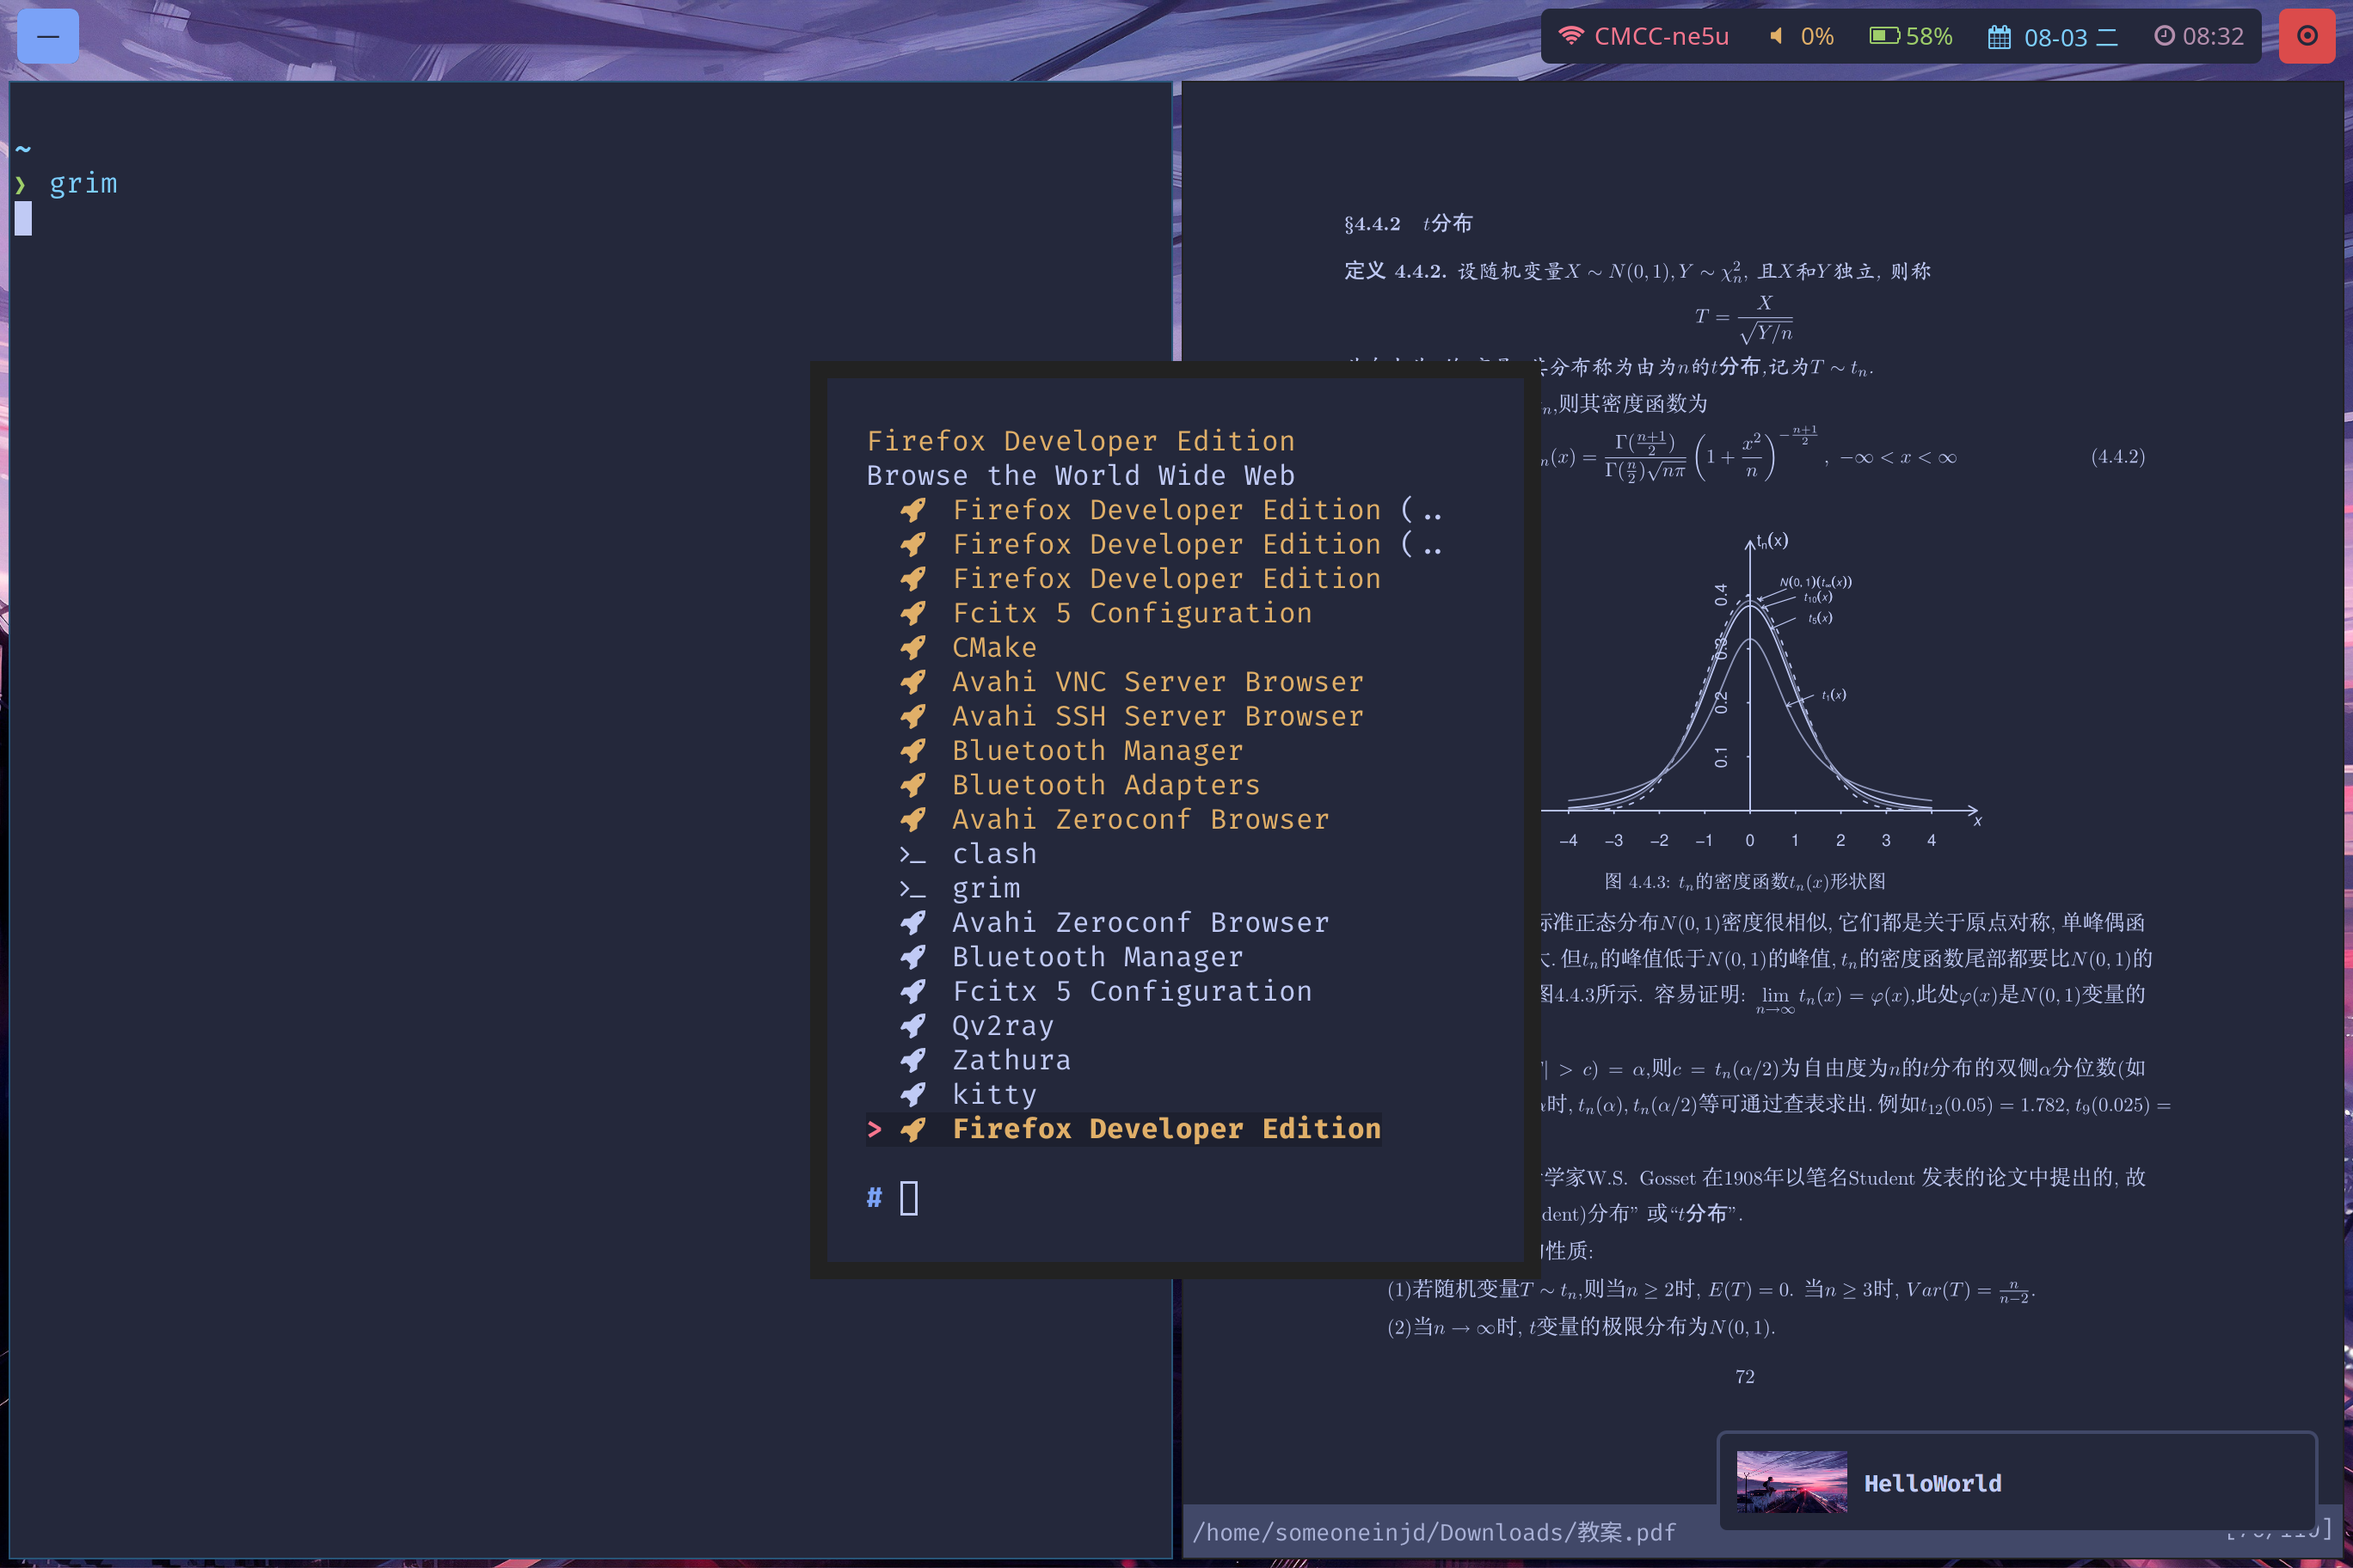
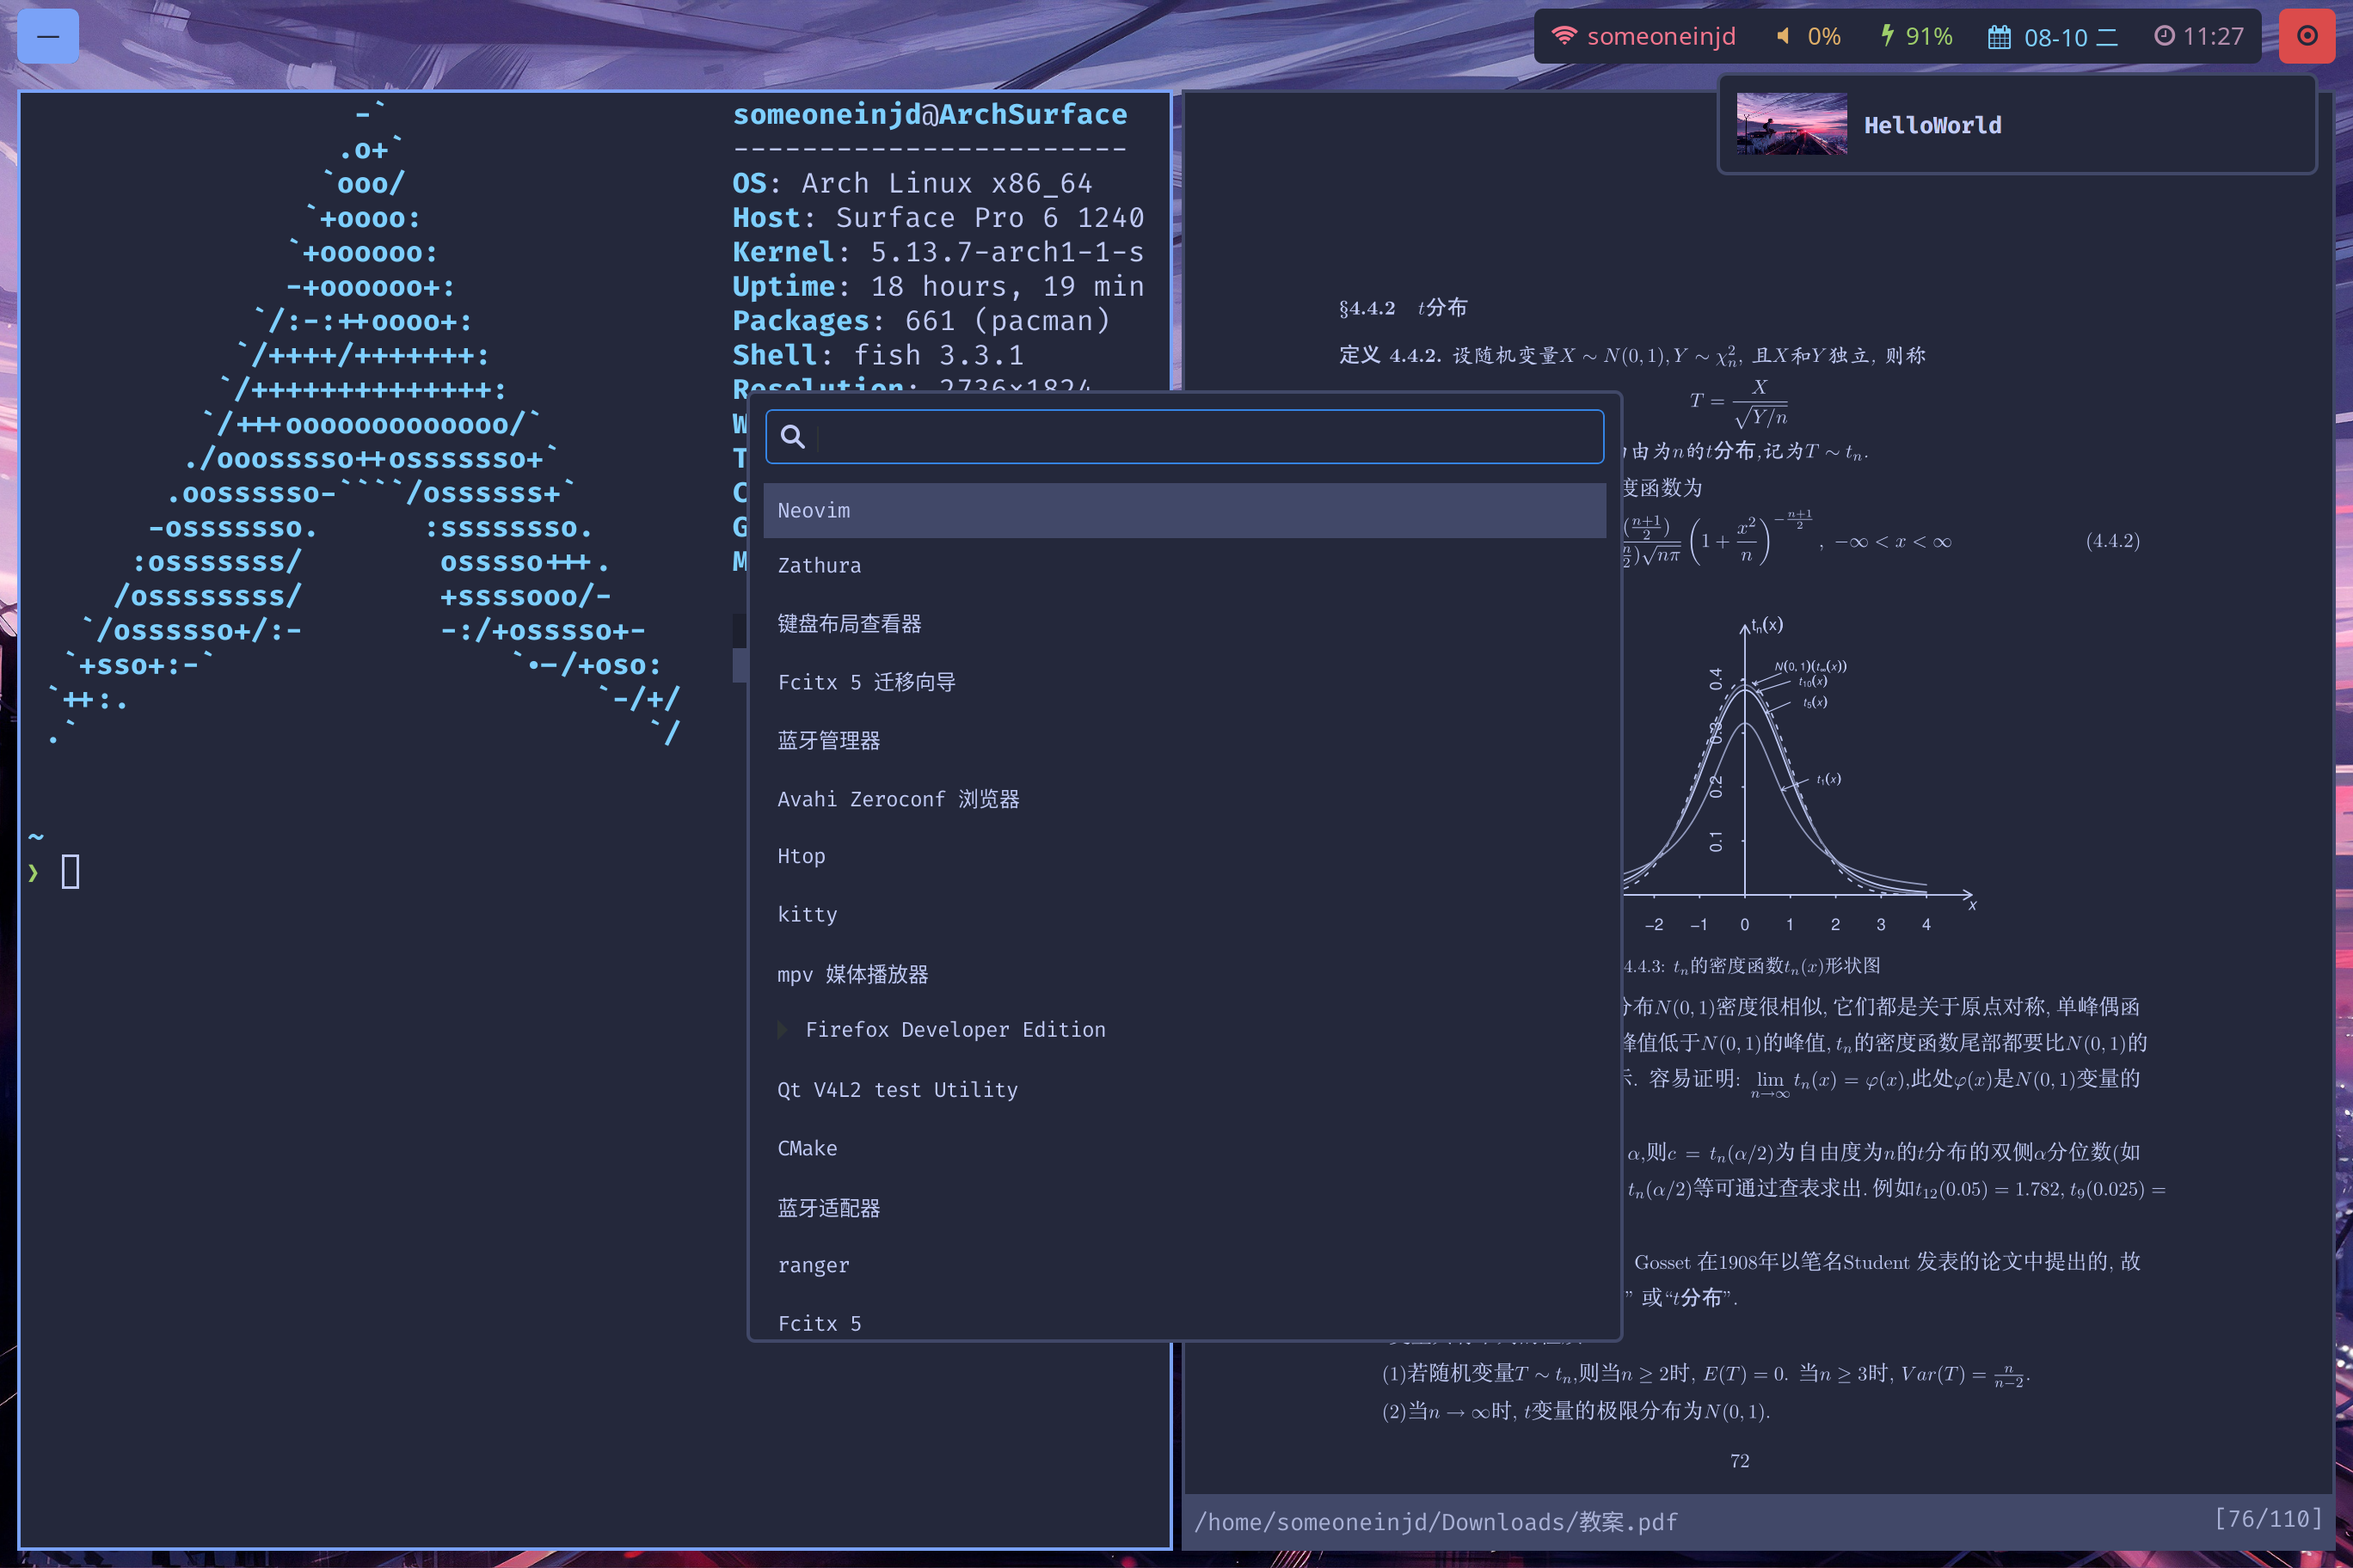
Add some screenshots to README.md

diff --git a/README.md b/README.md
@@ -18,7 +18,7 @@ Arch的一些配置
 * 截屏：[grim](https://github.com/emersion/grim)
 * 通知：[mako](https://github.com/emersion/mako)
 * Shell提示符：[starship](https://github.com/starship/starship)
-* 启动器: [sway-launcher-desktop](https://github.com/Biont/sway-launcher-desktop) 
+* 启动器: [wofi](https://hg.sr.ht/~scoopta/wofi) 
 
 ## 截屏
 
